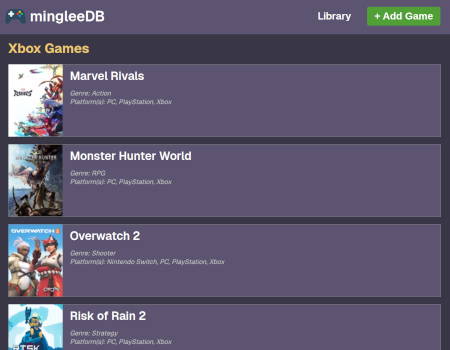
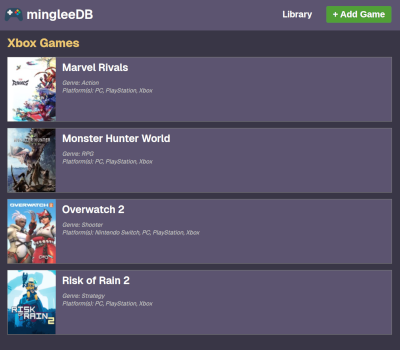
fix project tags

diff --git a/src/styles/Portfolio.css b/src/styles/Portfolio.css
@@ -77,7 +77,7 @@
   display: flex;
   flex-direction: column;
   justify-content: space-between;
-  height: 160px;
+  min-height: 160px;
   position: relative;
 }
 
